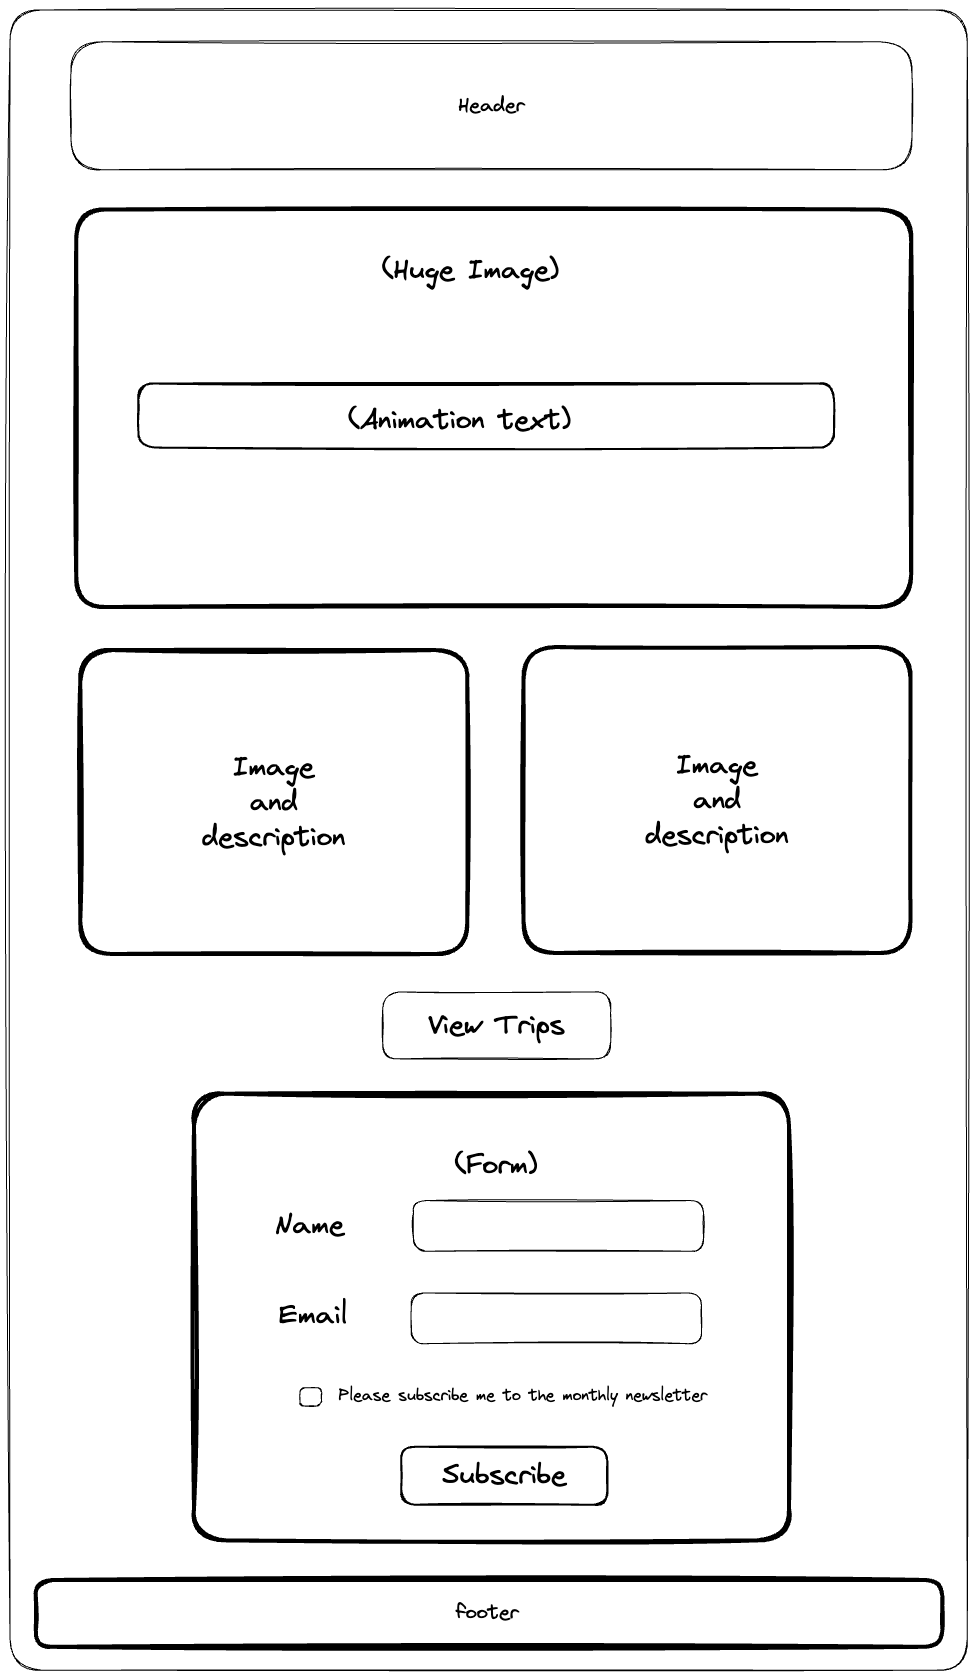
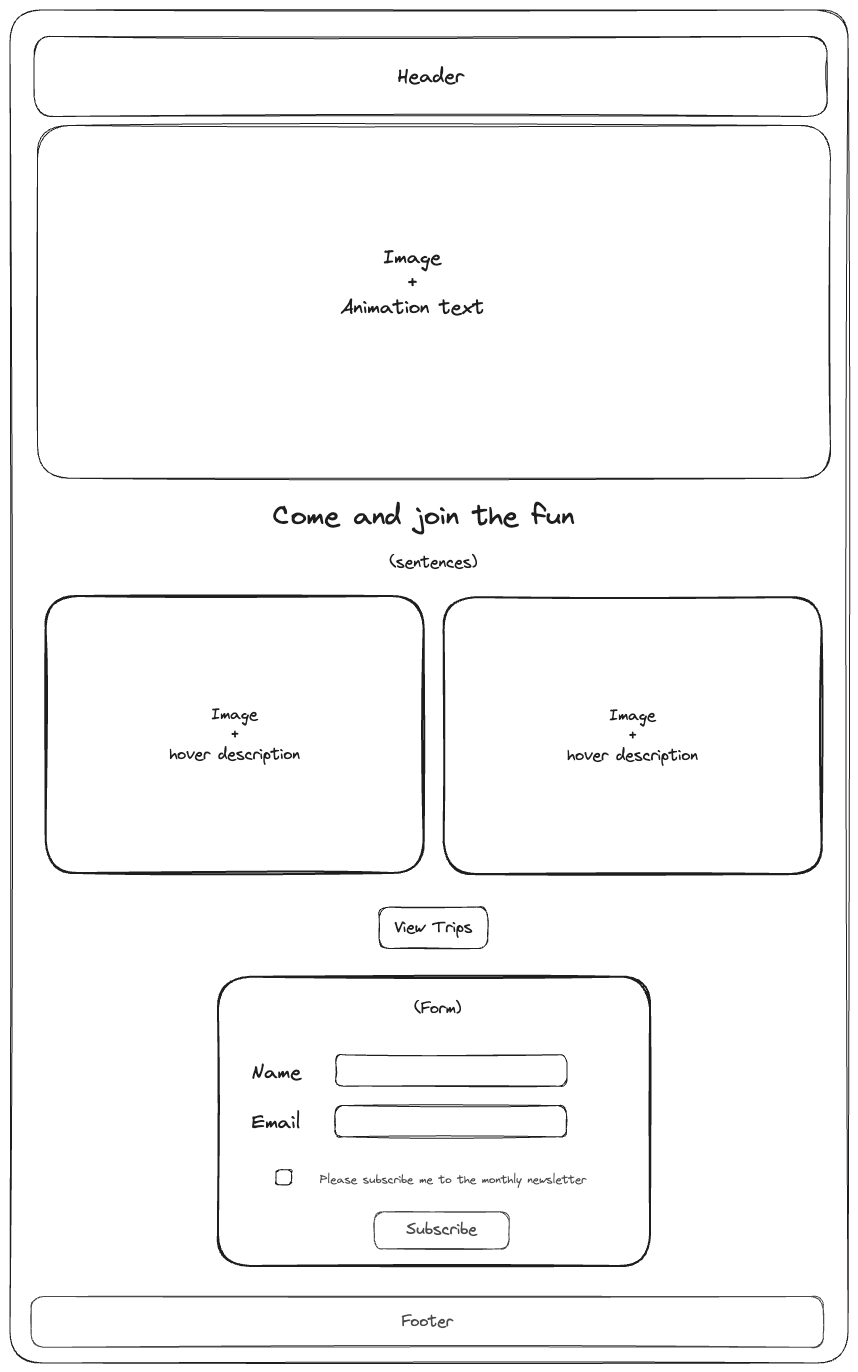
possibly finished with homepage

diff --git a/wwr/index.html b/wwr/index.html
@@ -4,7 +4,7 @@
 	<meta charset="UTF-8">
 	<meta name="viewport" content="width=device-width, initial-scale=1.0">
 	<title>White Water Rafting | Home | Vanessa Yang</title>
-	<meta name="description" content="home page that contains information to entice customer to see all that White Water Rafting has to offer">
+	<meta name="description" content="home page that contains information to entice customer to visit and see all that White Water Rafting has to offer">
 	<meta name="author" content="Vanessa Yang">
 	<link rel="stylesheet" href="styles/rafting.css">
 </head>
@@ -34,8 +34,32 @@
 			</article>
 		</div>
 
+		<div class="info">
+			<h3>Come and join the fun</h3>
+			<p>You don't have to be wealthy in order to afford the river adventures that we have in store for you. We offer large group discounts so feel free to bring your whole clan and remember: The more the merrier!</p>
+		</div>	
 
+		<div class="info2">
+			<div class="entice">			
+				<img src="images/dog-trip2.jpeg" alt="dog on raft">
+				<div class="image-overlay">
+					<p>When you have small children, activities seem to be limited. Now, you can bring the whole family with you and enjoy a grown up hobby with them! </p>
+				</div>
+			</div>
 
+			<div class="entice">
+				<img src="images/family.jpeg" alt="family">
+				<div class="image-overlay">
+					<p>Have you ever wanted to take a family trip, but ended up having to leave fido at home? Here at White Water Rafting, we allow dogs at almost every part of our beautiful areas. So, feel free to bring Fido with you so you can enjoy a worry-free rafting day with the whole family!</p>
+				</div>
+			</div>
+			
+		</div>
+		
+		<form action="trips.html" method="get">
+			<button>View Trips</button>				
+		</form>
+		
 		<form>
 			<fieldset>
 				<legend><h4>Want More?</h4></legend>
@@ -57,9 +81,7 @@
 			</fieldset>
 		</form>		
 
-		<form action="trips.html" method="get">
-			<button>View Trips</button>				
-		</form>
+
 	</main>
 
 <footer>

diff --git a/wwr/site-plan-rafting.html b/wwr/site-plan-rafting.html
@@ -20,7 +20,7 @@
         <h3>Purpose</h3>
         <p>To increase family clientelle by allowing in families with pets. This should return more revenue because of bigger family parties.</p>
         <h3>Audience</h3>
-        <p>Target customers:<br> Scenario 1: Feeling guilty that everyone in the family is going river rafting, but they must leave their dog at home.<br>Solution: We have rivers at slower speeds so your family dog can join you on the boat.<br><br>Scenario 2: Customer has young children who tire easily.<br>Solution: We have short and slow rapids so the whole family can still get the excitement of riding the rapids, but in a shorter time frame. They can relax along the more beachy areas.<br><br>Scenario 3: Customer has a large family so rafting can get pricey.<br>Solution: With  group discounts available, we are able to make it more affordable per person if you come in a large group.</p>
+        <p><h5>Target customers:</h5> Scenario 1: Feeling guilty that everyone in the family is going river rafting, but they must leave their dog at home.<br>Solution: We have rivers at slower speeds so your family dog can join you on the boat.<br><br>Scenario 2: Customer has young children who tire easily.<br>Solution: We have short and slow rapids so the whole family can still get the excitement of riding the rapids, but in a shorter time frame. They can relax along the more beachy areas.<br><br>Scenario 3: Customer has a large family so rafting can get pricey.<br>Solution: With  group discounts available, we are able to make it more affordable per person if you come in a large group.</p>
         
         <h2>Branding</h2>
         

diff --git a/wwr/styles/rafting.css b/wwr/styles/rafting.css
@@ -418,3 +418,41 @@ h4 {
     75% {color: yellow}
     100% {color: pink;}
 }
+
+.info2 {
+    display: grid;
+    grid-template-columns: 1fr 1fr;
+    grid-gap: 20px;
+    overflow: hidden;    
+  }
+
+.entice {
+    position: relative;
+}
+
+.image-overlay {
+    position: absolute;
+    top: 0;
+    left: 0;
+    width: 100%;
+    height: 100%;
+    opacity: 0;
+    /* background-color: rgba(0, 0, 0, 0.5); */
+    color: #fff;
+    display: flex;
+    flex-direction: column;
+    justify-content: center;
+    align-items: center;
+    transition: opacity 0.3s ease;
+}
+  
+.entice:hover .image-overlay {
+    opacity: 1;
+}
+  
+.image-overlay p {
+    margin: 0;
+    padding: 0;
+}
+  
+  
